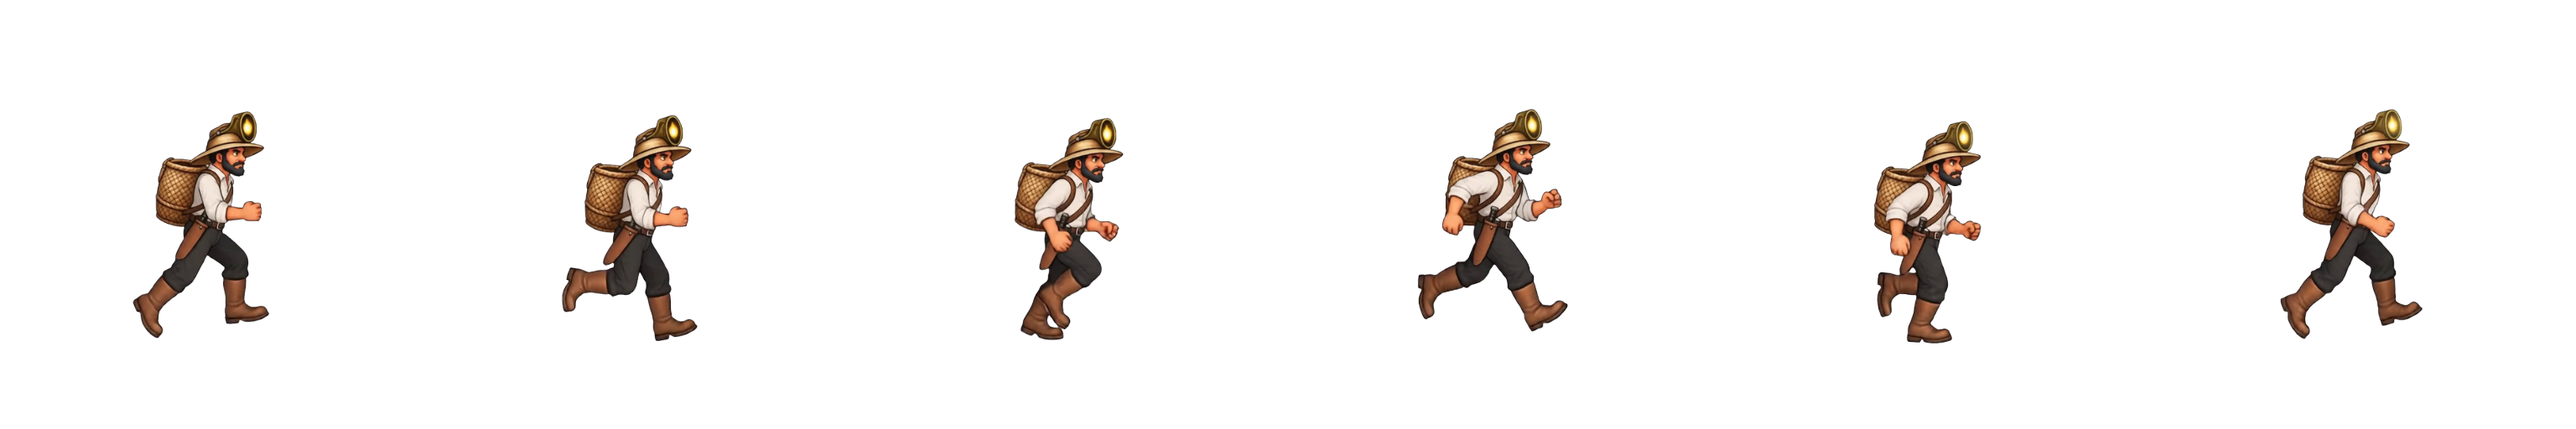
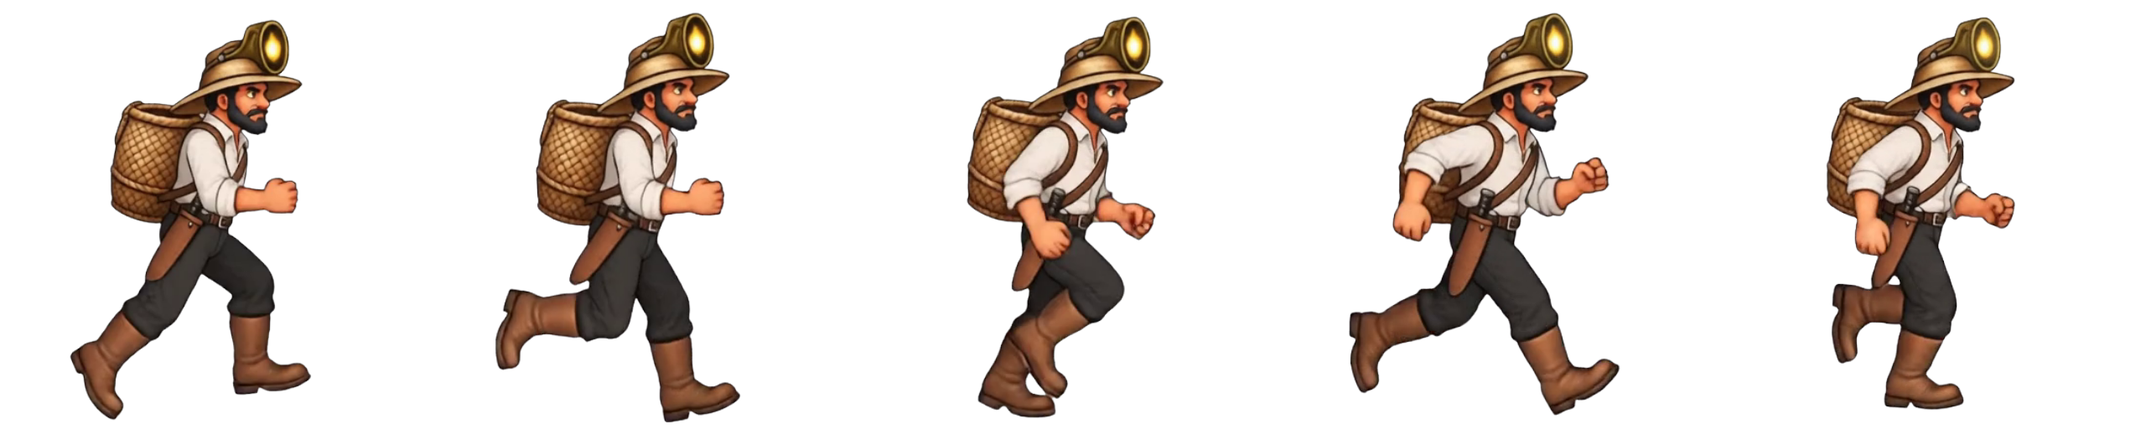
Refina animacao walk do seringueiro com 5 frames

diff --git a/src/game/scenes/Preloader.js b/src/game/scenes/Preloader.js
@@ -35,7 +35,7 @@ export class Preloader extends Scene
         this.load.image('logo', 'logo.png');
         this.load.spritesheet('seringueiroAttack', 'attack.png', { frameWidth: 512, frameHeight: 512, endFrame: 7 });
         this.load.spritesheet('seringueiroIdle', 'idle.png', { frameWidth: 512, frameHeight: 512, endFrame: 3 });
-        this.load.spritesheet('seringueiroWalk', 'walk.png', { frameWidth: 512, frameHeight: 512, endFrame: 5 });
+        this.load.spritesheet('seringueiroWalk', 'walk.png', { frameWidth: 512, frameHeight: 512, endFrame: 4 });
         this.load.spritesheet('seringueiroJump', 'jump.png', { frameWidth: 512, frameHeight: 512, endFrame: 3 });
         this.load.spritesheet('seringueiroDash', 'dash.png', { frameWidth: 512, frameHeight: 512, endFrame: 3 });
         this.load.spritesheet('seringueiroLanding', 'landing.png', { frameWidth: 512, frameHeight: 512, endFrame: 1 });

diff --git a/src/game/scenes/Level4Scene.js b/src/game/scenes/Level4Scene.js
@@ -1012,8 +1012,8 @@ export class Level4Scene extends Scene
             {
                 this.idleVisualStartedAt=null;
                 if(this.attackSprite.texture.key!=='seringueiroWalk')this.attackSprite.setTexture('seringueiroWalk',0);
-                // Caminhada oficial a 8 FPS: 0 → 1 → 2 → 3 → 4 → 5 → 0.
-                this.attackSprite.setFrame(Math.floor(time/125)%6);
+                // Caminhada oficial a 8 FPS: 0 → 1 → 2 → 3 → 4 → 0.
+                this.attackSprite.setFrame(Math.floor(time/125)%5);
             }
             else if(idle)
             {

diff --git a/src/game/scenes/Level5Scene.js b/src/game/scenes/Level5Scene.js
@@ -1608,8 +1608,8 @@ export class Level5Scene extends Scene
             {
                 this.idleVisualStartedAt=null;
                 if(this.attackSprite.texture.key!=='seringueiroWalk')this.attackSprite.setTexture('seringueiroWalk',0);
-                // Caminhada oficial a 8 FPS: 0 → 1 → 2 → 3 → 4 → 5 → 0.
-                this.attackSprite.setFrame(Math.floor(time/125)%6);
+                // Caminhada oficial a 8 FPS: 0 → 1 → 2 → 3 → 4 → 0.
+                this.attackSprite.setFrame(Math.floor(time/125)%5);
             }
             else if(idle)
             {

diff --git a/src/game/scenes/Level2Scene.js b/src/game/scenes/Level2Scene.js
@@ -755,8 +755,8 @@ export class Level2Scene extends Scene
             {
                 this.idleVisualStartedAt=null;
                 if(this.attackSprite.texture.key!=='seringueiroWalk')this.attackSprite.setTexture('seringueiroWalk',0);
-                // Caminhada oficial a 8 FPS: 0 → 1 → 2 → 3 → 4 → 5 → 0.
-                this.attackSprite.setFrame(Math.floor(time/125)%6);
+                // Caminhada oficial a 8 FPS: 0 → 1 → 2 → 3 → 4 → 0.
+                this.attackSprite.setFrame(Math.floor(time/125)%5);
             }
             else if(idle)
             {

diff --git a/src/game/scenes/Level3Scene.js b/src/game/scenes/Level3Scene.js
@@ -731,8 +731,8 @@ export class Level3Scene extends Scene
             {
                 this.idleVisualStartedAt=null;
                 if(this.attackSprite.texture.key!=='seringueiroWalk')this.attackSprite.setTexture('seringueiroWalk',0);
-                // Caminhada oficial a 8 FPS: 0 → 1 → 2 → 3 → 4 → 5 → 0.
-                this.attackSprite.setFrame(Math.floor(time/125)%6);
+                // Caminhada oficial a 8 FPS: 0 → 1 → 2 → 3 → 4 → 0.
+                this.attackSprite.setFrame(Math.floor(time/125)%5);
             }
             else if(idle)
             {

diff --git a/src/game/scenes/Game.js b/src/game/scenes/Game.js
@@ -1029,8 +1029,8 @@ export class Game extends Scene
             {
                 this.idleVisualStartedAt=null;
                 if(this.attackSprite.texture.key!=='seringueiroWalk')this.attackSprite.setTexture('seringueiroWalk',0);
-                // Caminhada oficial a 8 FPS: 0 → 1 → 2 → 3 → 4 → 5 → 0.
-                this.attackSprite.setFrame(Math.floor(time/125)%6);
+                // Caminhada oficial a 8 FPS: 0 → 1 → 2 → 3 → 4 → 0.
+                this.attackSprite.setFrame(Math.floor(time/125)%5);
             }
             else if(idle)
             {
